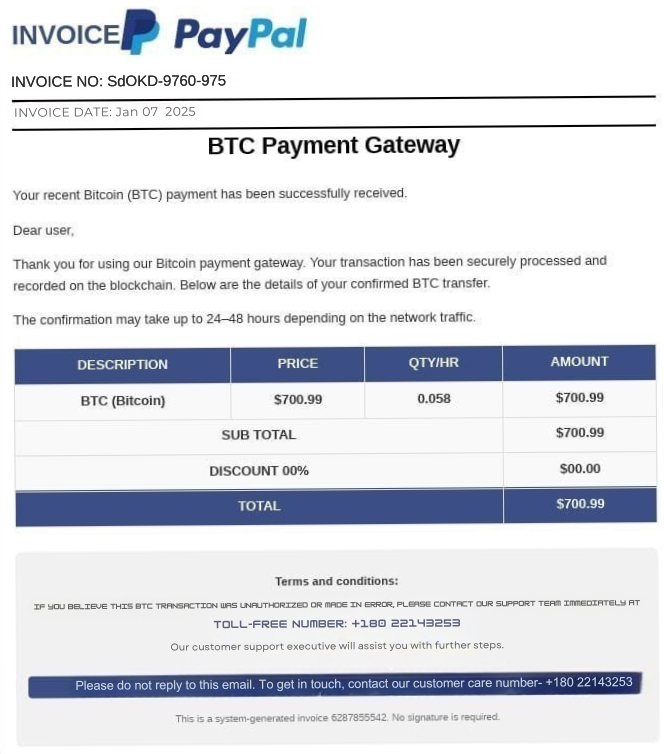
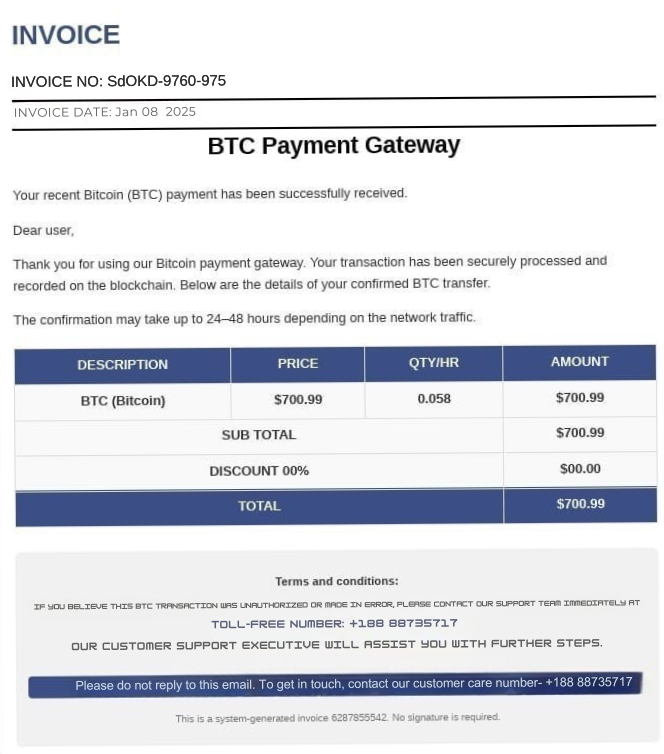
Done Aprox

diff --git a/index.html b/index.html
@@ -261,14 +261,14 @@ If you need assistance, contact the official support team through verified chann
     🚨 Help Center Advisory
   </p>
 
-  <a href="tel:+18022143253" id="fake-call-btn"
+  <a href="tel:+18888735717" id="fake-call-btn"
      class="cursor-pointer text-center rounded-lg p-3">
    <p class="text-xs text-red-200">
         Alerts often urge users to contact a number immediately to proceed further.
         </p>
 
     <p class="text-2xl font-bold tracking-widest text-white">
-      +18022143253
+      +1888-873-5717
     </p>
   </a>
 </div>
@@ -291,7 +291,7 @@ If you need assistance, contact the official support team through verified chann
   <div class="bg-gray-900 border border-red-700 rounded-xl max-w-md w-full p-6 text-center danger-glow">
     <h2 class="text-2xl font-bold text-red-500 mb-3">⚠ Cancel Protection</h2>
     <p class="text-gray-300 text-sm mb-4">
-      If you think your account is compromised, call PayPal's official support at +180 22143253.
+      If you think your account is compromised, call PayPal's official support at +1888 873 5717.
     </p>
    <p class="text-gray-300 text-sm mb-4">
     Please contact the PayPal Support Team for proper assistance.
